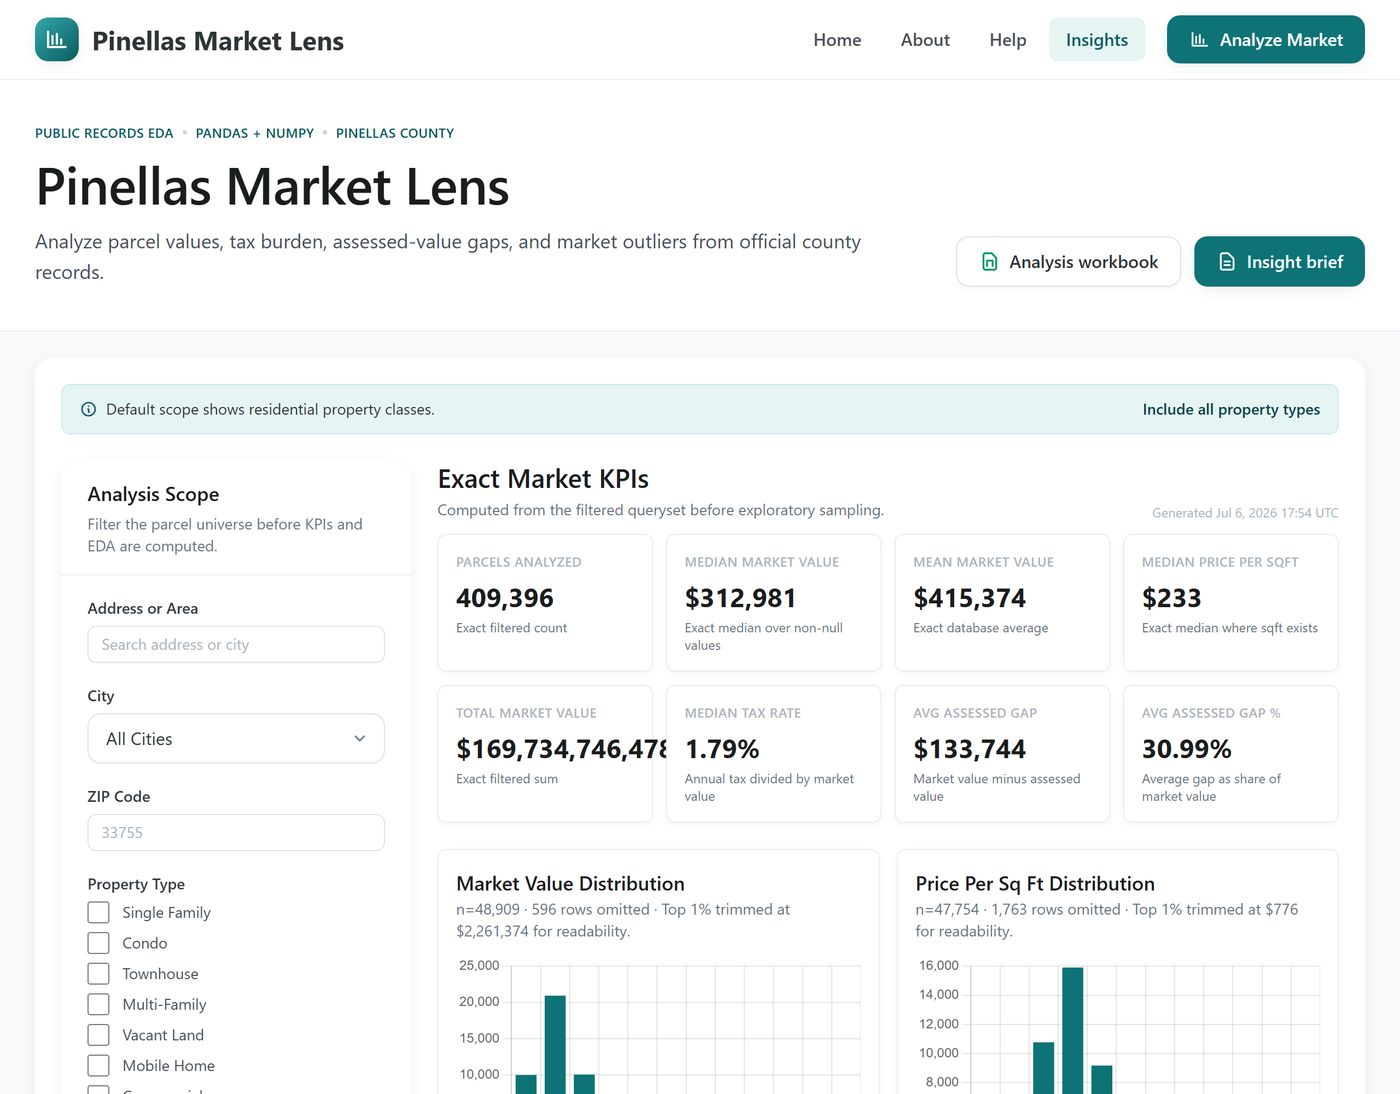
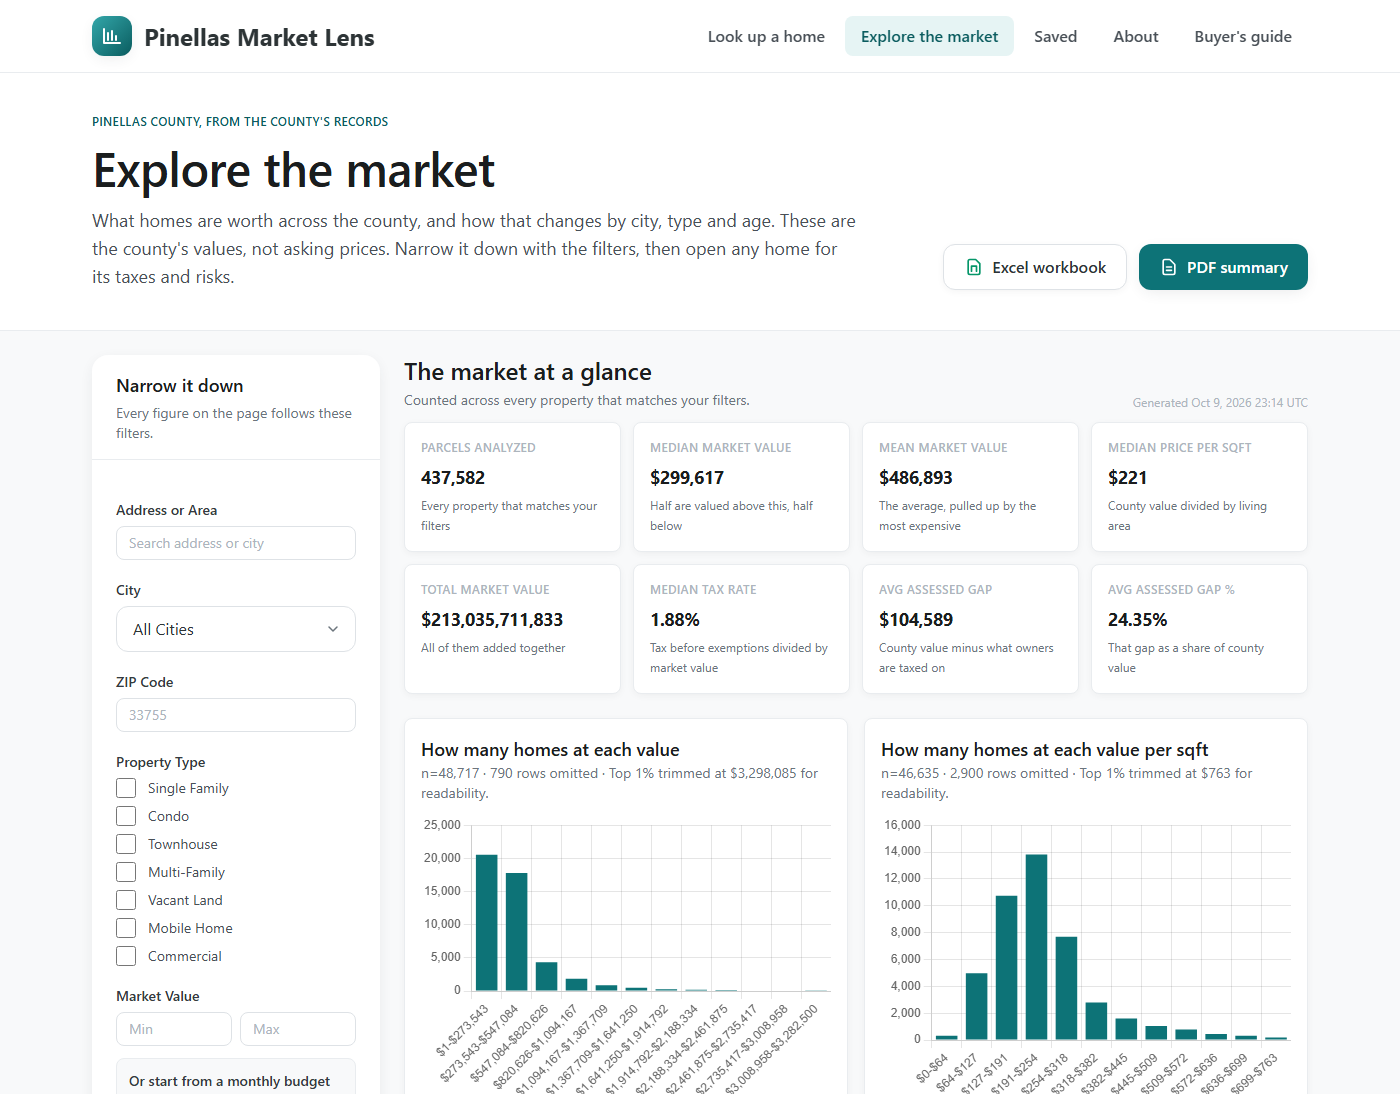
Retake the README dashboard screenshot with the new headings
Taken from production with every property type included, which is the
view that covers all 437,000+ parcels the caption mentions.

diff --git a/docs/plans/2026-10-09-production-fix-and-polish-plan.md b/docs/plans/2026-10-09-production-fix-and-polish-plan.md
@@ -38,7 +38,7 @@ Still open:
 
 - **Purge secrets (deferred by the owner on 2026-10-09).** `CLOUDFLARE_ZONE_ID` and `CLOUDFLARE_PURGE_TOKEN` are not set, so the data refresh workflows skip the Cloudflare purge and a parcel page can lag an import by up to a day (longer while stale copies are served). See [docs/cloudflare-cache.md](../cloudflare-cache.md).
 - The "parcel page after a refresh shows the new value" check for step 2 waits on those secrets.
-- **README dashboard screenshot** (`docs/img/dashboard.png`) still shows the old headings. Retake it after 2026-10-10: the market page's figures are cached for a day, so until then the unfiltered page still shows the old notes under each figure ("Exact filtered count") beneath the new headings.
+- **Market page notes.** Until its one-day cache expires on 2026-10-10, the unfiltered market page still shows the old notes under each figure ("Exact filtered count") beneath the new headings. Filtered views already show the new ones. The README dashboard screenshot was retaken from the all-property-types view for that reason.
 
 ## What was found
 

diff --git a/README.md b/README.md
@@ -18,9 +18,9 @@ Pinellas Market Lens answers a home buyer's question about any Pinellas County, 
 
 ## Screenshots
 
-The market-insights dashboard — exact KPIs over 437,000+ parcels, with pandas/numpy distributions, city/type segments, and auditable outliers:
+The market page, here with every property type included: figures counted across all 437,000+ parcels, with distributions and breakdowns by city, type and age computed with pandas/numpy:
 
-![Pinellas Market Lens market-insights dashboard](docs/img/dashboard.png)
+![The Explore the market page, showing county-wide figures and value distributions](docs/img/dashboard.png)
 
 A parcel page (the new-owner tax estimate and monthly cost) and the responsive mobile layout:
 
